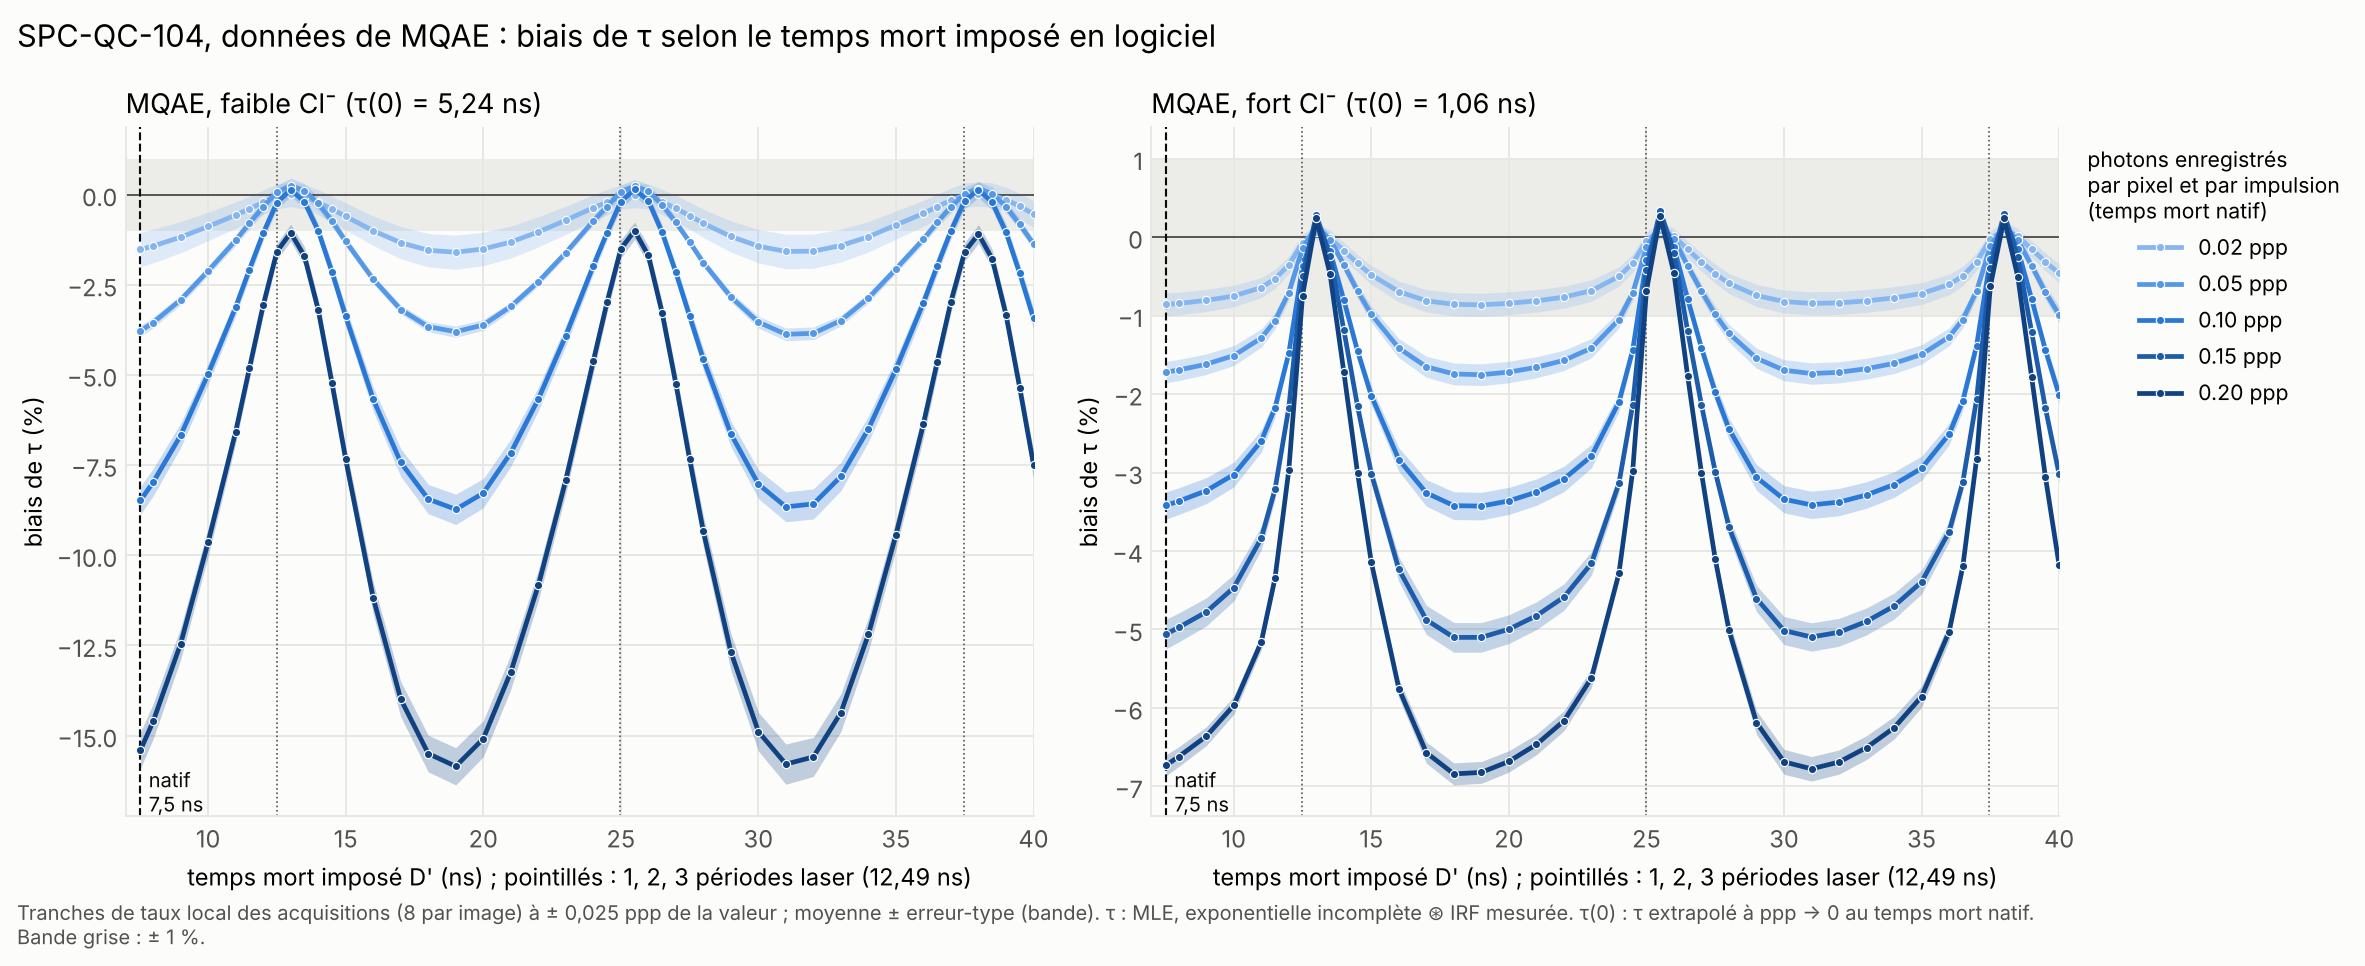
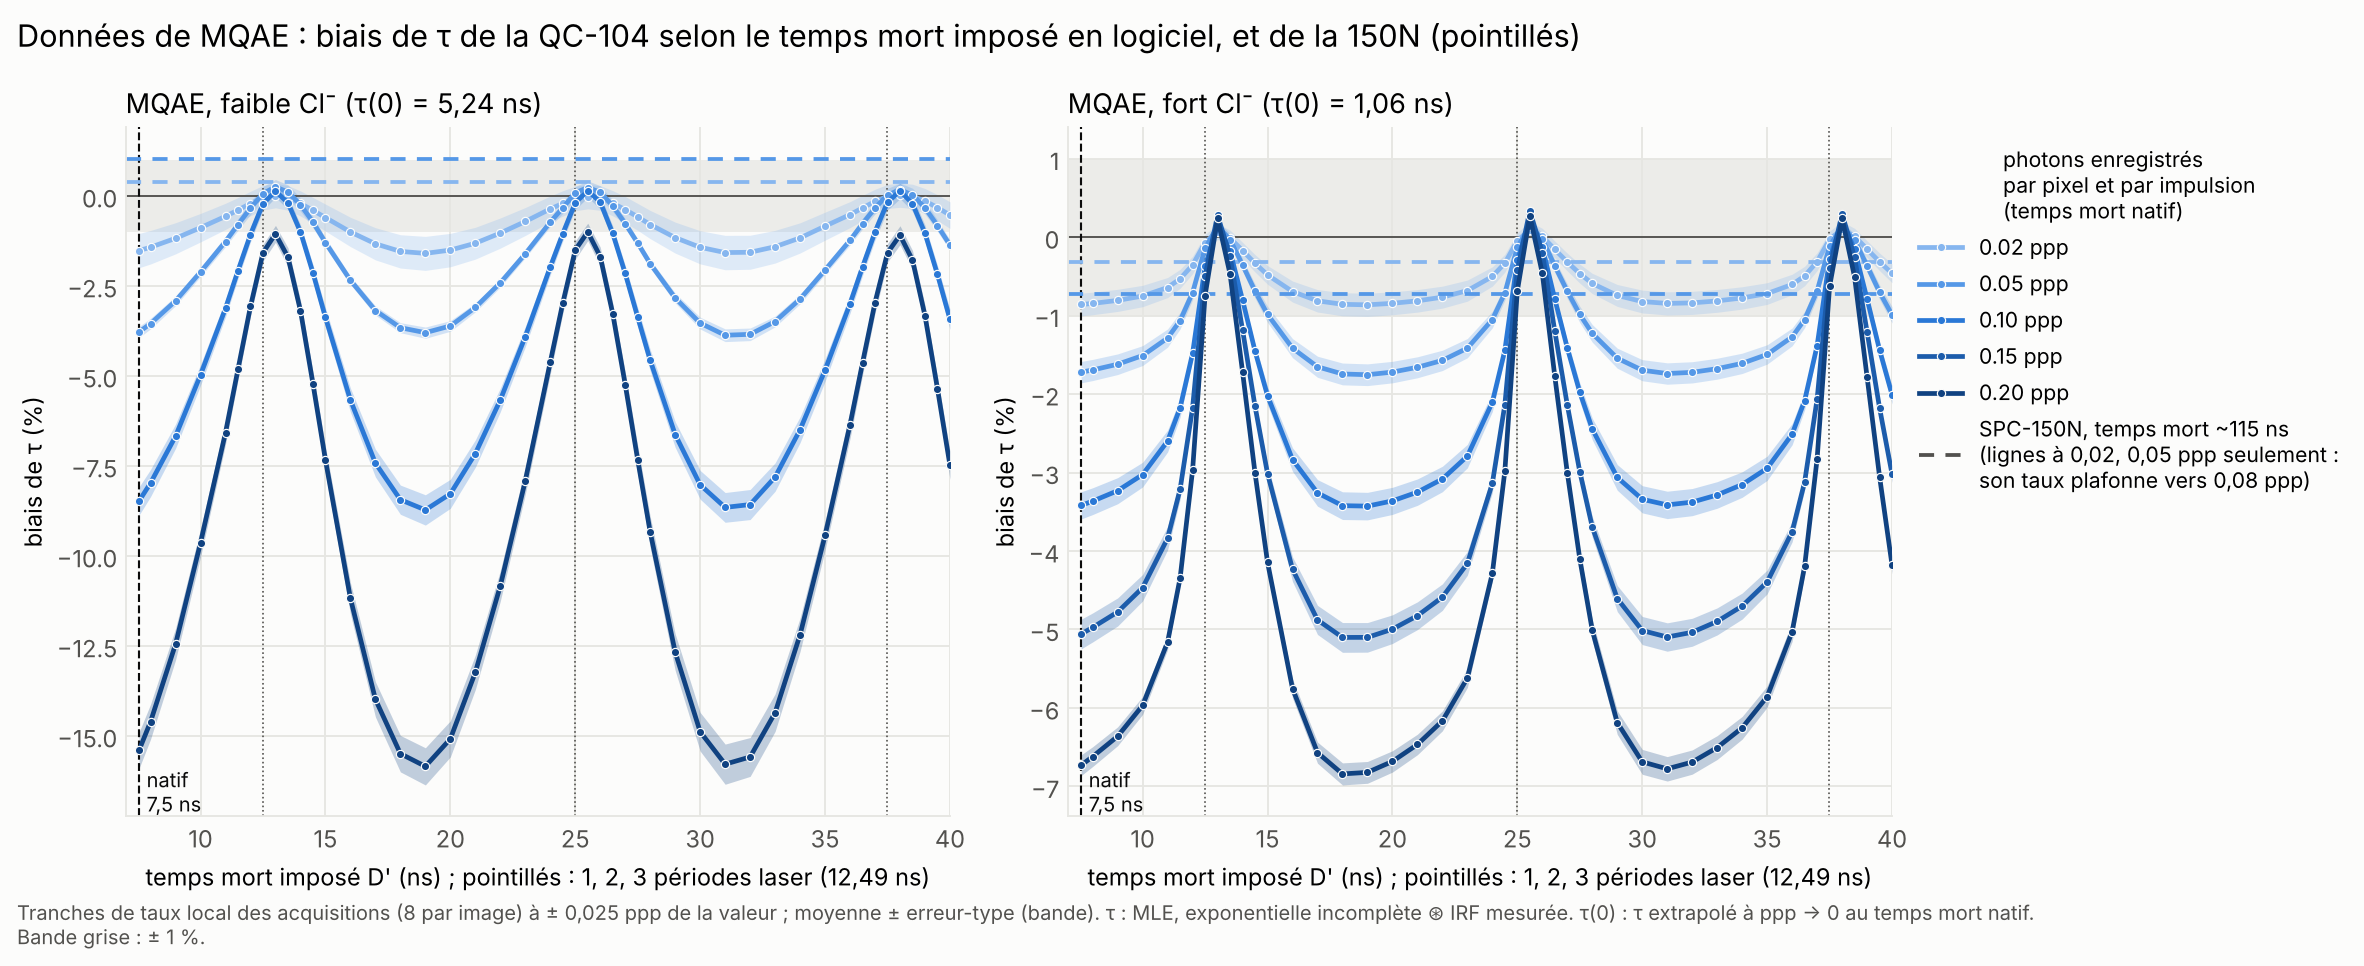
pileup, figure 8 : biais de la SPC-150N en pointillés pour chaque ppp
Claude-Session: https://claude.ai/code/session_01HLWpx6pZqq6VQT2fGTQ442

diff --git a/pileup/step5_temps_mort_logiciel.py b/pileup/step5_temps_mort_logiciel.py
@@ -18,7 +18,12 @@ incomplète ⊛ IRF, décalage de l'IRF fixé à celui du déclin global natif).
   (taux local mesuré dans l'image) ;
 - biais = τ / τ(0) − 1, τ(0) étant l'ordonnée à l'origine de τ(ppp) au temps mort natif,
   toutes tranches réunies (une valeur par solution) ;
-- courbes : moyenne des tranches de chaque classe de ppp (± LARGEUR_CLASSE).
+- courbes : moyenne des tranches de chaque classe de ppp (± LARGEUR_CLASSE) ;
+- pointillés : biais de la SPC-150N à son temps mort natif (~115 ns), même définition, à
+  partir de ses tranches (durees_de_vie.csv, étape 2). Son temps mort plafonne son taux
+  vers 0,08 ppp enregistré : pas de ligne au-delà.
+
+`--figure` : refait la figure depuis resultats/temps_mort_logiciel.csv, sans mesurer.
 
 Sorties : resultats/temps_mort_logiciel.csv, figures/8_biais_temps_mort.png.
 Durée : ~10 min.
@@ -117,7 +122,24 @@ def classes(mes, sol):
     return out
 
 
+def biais_150n():
+    """{solution: {ppp: biais moyen}} de la SPC-150N, canal 1 : τ / τ(0) − 1 sur ses
+    tranches de taux local, τ(0) ordonnée à l'origine de τ(ppp) ; classes à ± LARGEUR_CLASSE."""
+    rows = [r for r in csv.DictReader(open(RESULTATS / "durees_de_vie.csv"))
+            if r["carte"] == "SPC-150N" and r["canal"] == "1" and r["serie"] == "spc" and r["tranche"] != "global"]
+    out = {}
+    for sol in ("low", "high"):
+        rr = [r for r in rows if r["solution"] == sol]
+        mu = np.array([float(r["mu_enr"]) for r in rr])
+        tau = np.array([float(r["tau_ns"]) for r in rr])
+        b = tau / np.polyfit(mu, tau, 1)[1] - 1
+        out[sol] = {ppp: float(b[np.abs(mu - ppp) <= LARGEUR_CLASSE].mean()) for ppp in PPP
+                    if (np.abs(mu - ppp) <= LARGEUR_CLASSE).sum() >= 3}
+    return out
+
+
 def figure(mes):
+    b150 = biais_150n()
     fig, axes = plt.subplots(1, 2, figsize=(14, 5.4), facecolor=SURFACE)
     for ax, sol in zip(axes, ("low", "high")):
         ax.set_facecolor(SURFACE)
@@ -139,6 +161,11 @@ def figure(mes):
                             color=col, alpha=0.25, lw=0)
             ax.plot(pts[:, 0], 100 * pts[:, 1], color=col, lw=2, marker="o", ms=3.5, mec=SURFACE, mew=0.5,
                     label=f"{ppp:.2f} ppp")
+            if ppp in b150[sol]:
+                ax.axhline(100 * b150[sol][ppp], color=col, lw=1.6, ls=(0, (4, 3)))
+        presents = ", ".join(f"{q:.2f}".replace(".", ",") for q in b150[sol])
+        ax.plot([], [], color=INK_2, lw=1.6, ls=(0, (4, 3)),
+                label=f"SPC-150N, temps mort ~115 ns\n(lignes à {presents} ppp seulement :\nson taux plafonne vers 0,08 ppp)")
         ax.set_xlim(7, 40)
         ax.set_xlabel("temps mort imposé D' (ns) ; pointillés : 1, 2, 3 périodes laser (12,49 ns)")
         ax.set_ylabel("biais de τ (%)")
@@ -147,7 +174,8 @@ def figure(mes):
         ax.text(D_NATIF + 0.3, ax.get_ylim()[0], "natif\n7,5 ns", fontsize=8.5, color=INK, va="bottom")
     axes[1].legend(title="photons enregistrés\npar pixel et par impulsion\n(temps mort natif)", fontsize=9,
                    title_fontsize=9, frameon=False, loc="upper left", bbox_to_anchor=(1.01, 1))
-    fig.suptitle("SPC-QC-104, données de MQAE : biais de τ selon le temps mort imposé en logiciel",
+    fig.suptitle("Données de MQAE : biais de τ de la QC-104 selon le temps mort imposé en logiciel, "
+                 "et de la 150N (pointillés)",
                  x=0.01, ha="left", fontsize=13)
     fig.text(0.01, -0.03, "Tranches de taux local des acquisitions (8 par image) à ± 0,025 ppp de la valeur ; "
              "moyenne ± erreur-type (bande). τ : MLE, exponentielle incomplète ⊛ IRF mesurée. "
@@ -159,6 +187,12 @@ def figure(mes):
 
 
 def main():
+    import sys
+    if "--figure" in sys.argv:
+        mes = [{k: (v if k == "solution" else float(v)) for k, v in r.items()}
+               for r in csv.DictReader(open(RESULTATS / "temps_mort_logiciel.csv"))]
+        figure(mes)
+        return
     D = dossier_donnees()
     preparer()
     mes = mesurer(D, Modele(irf(D, "SPC-QC-104", 1), "SPC-QC-104"))
